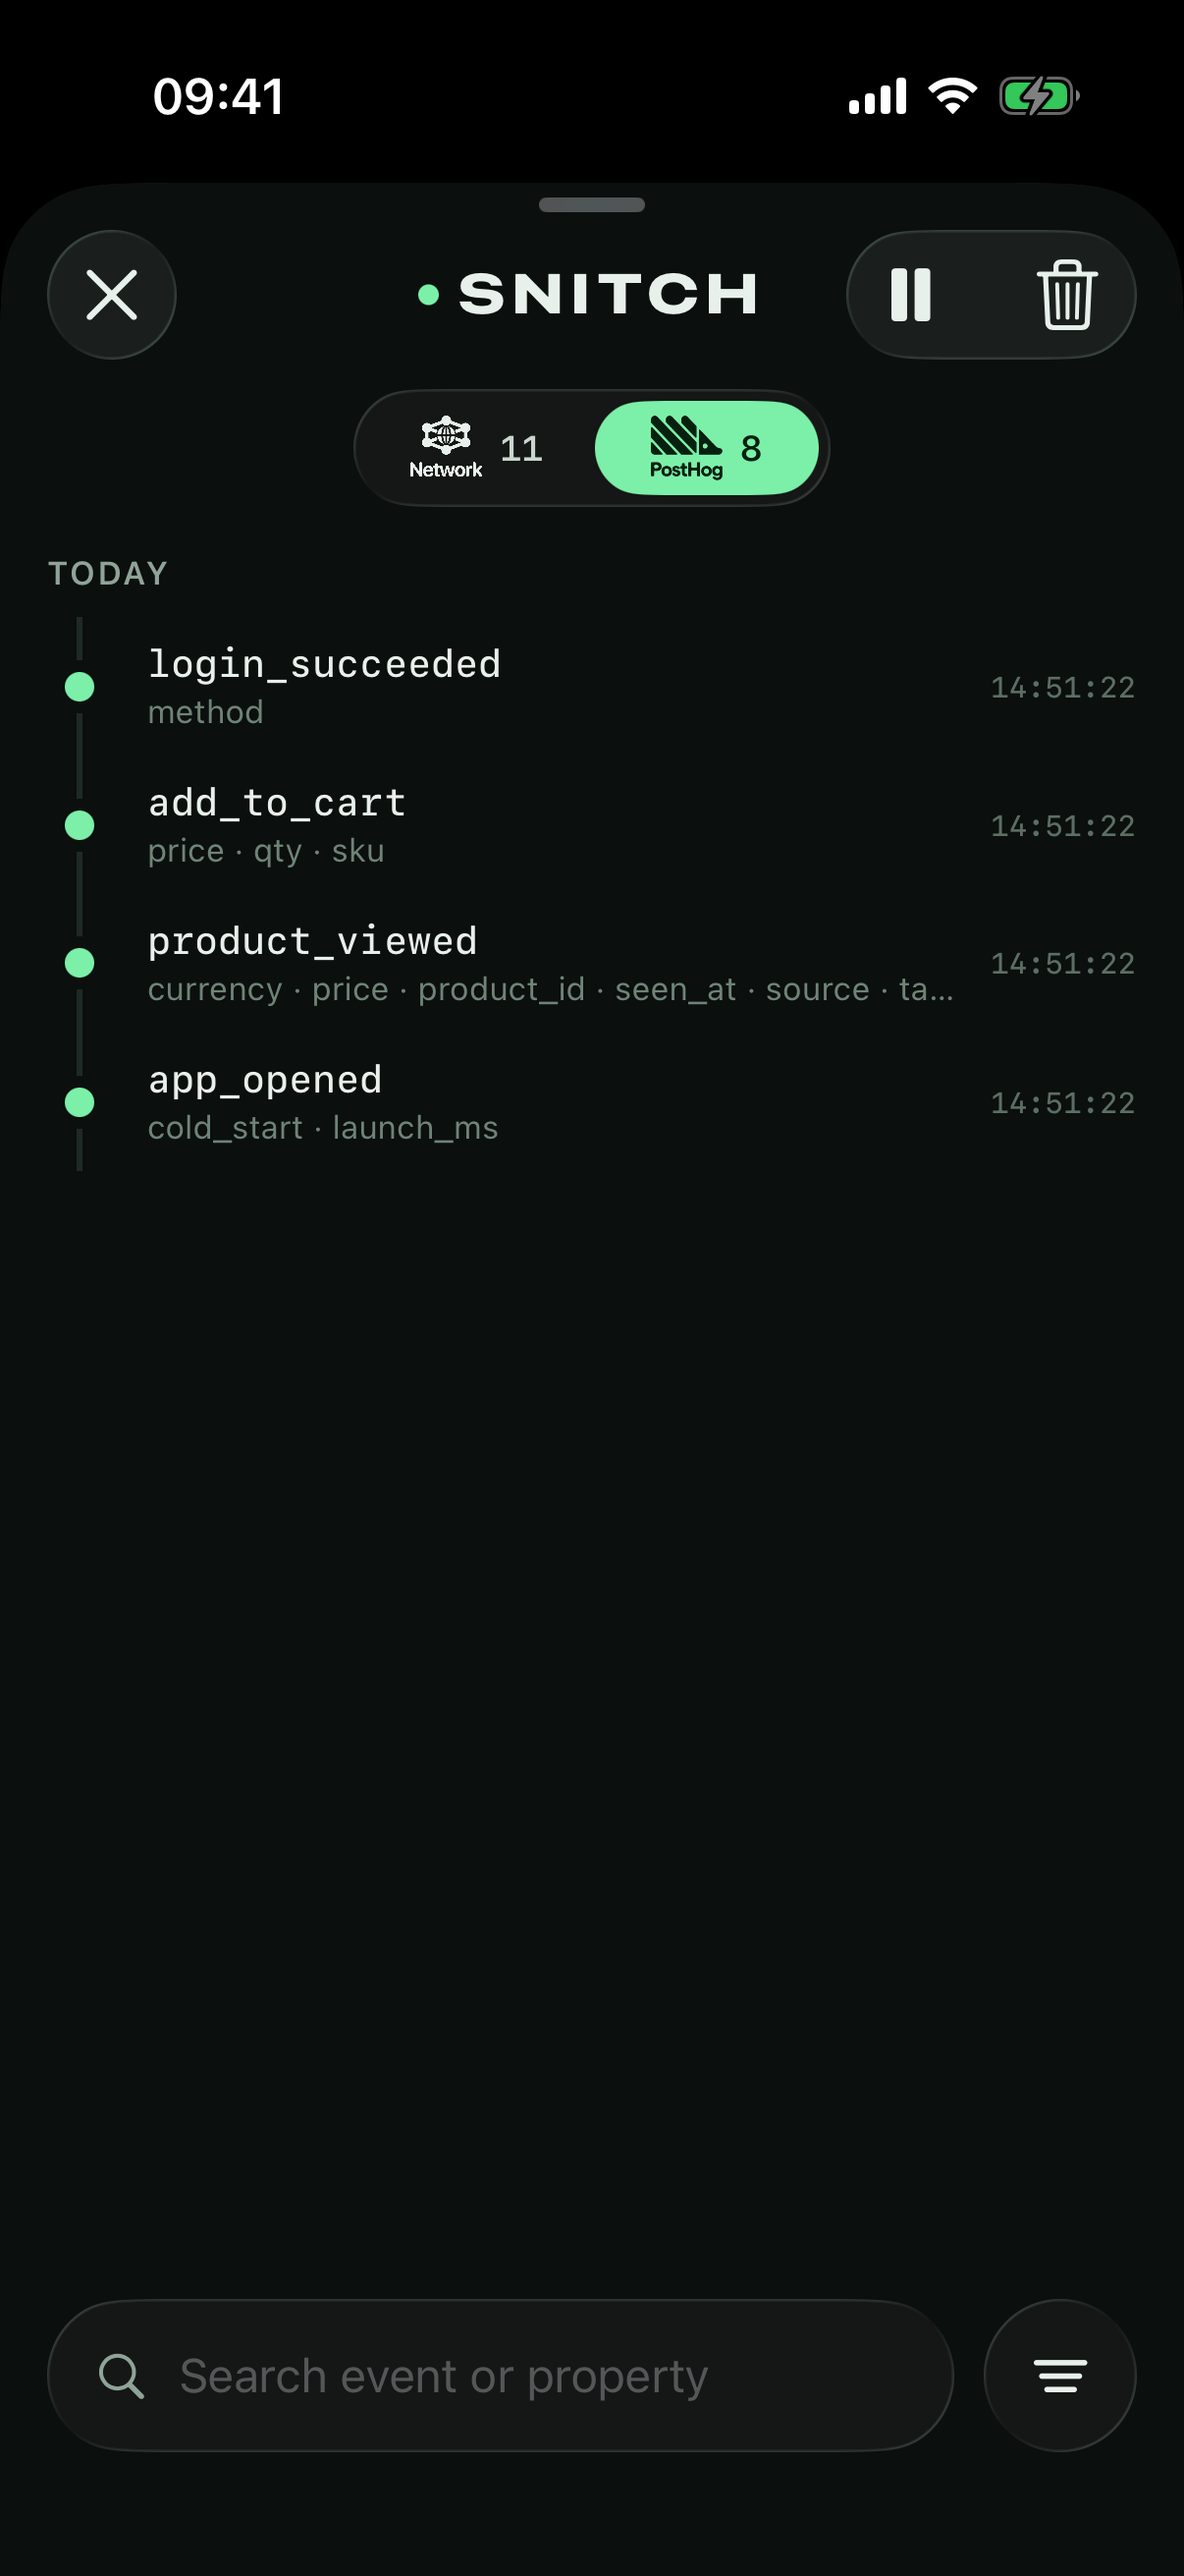
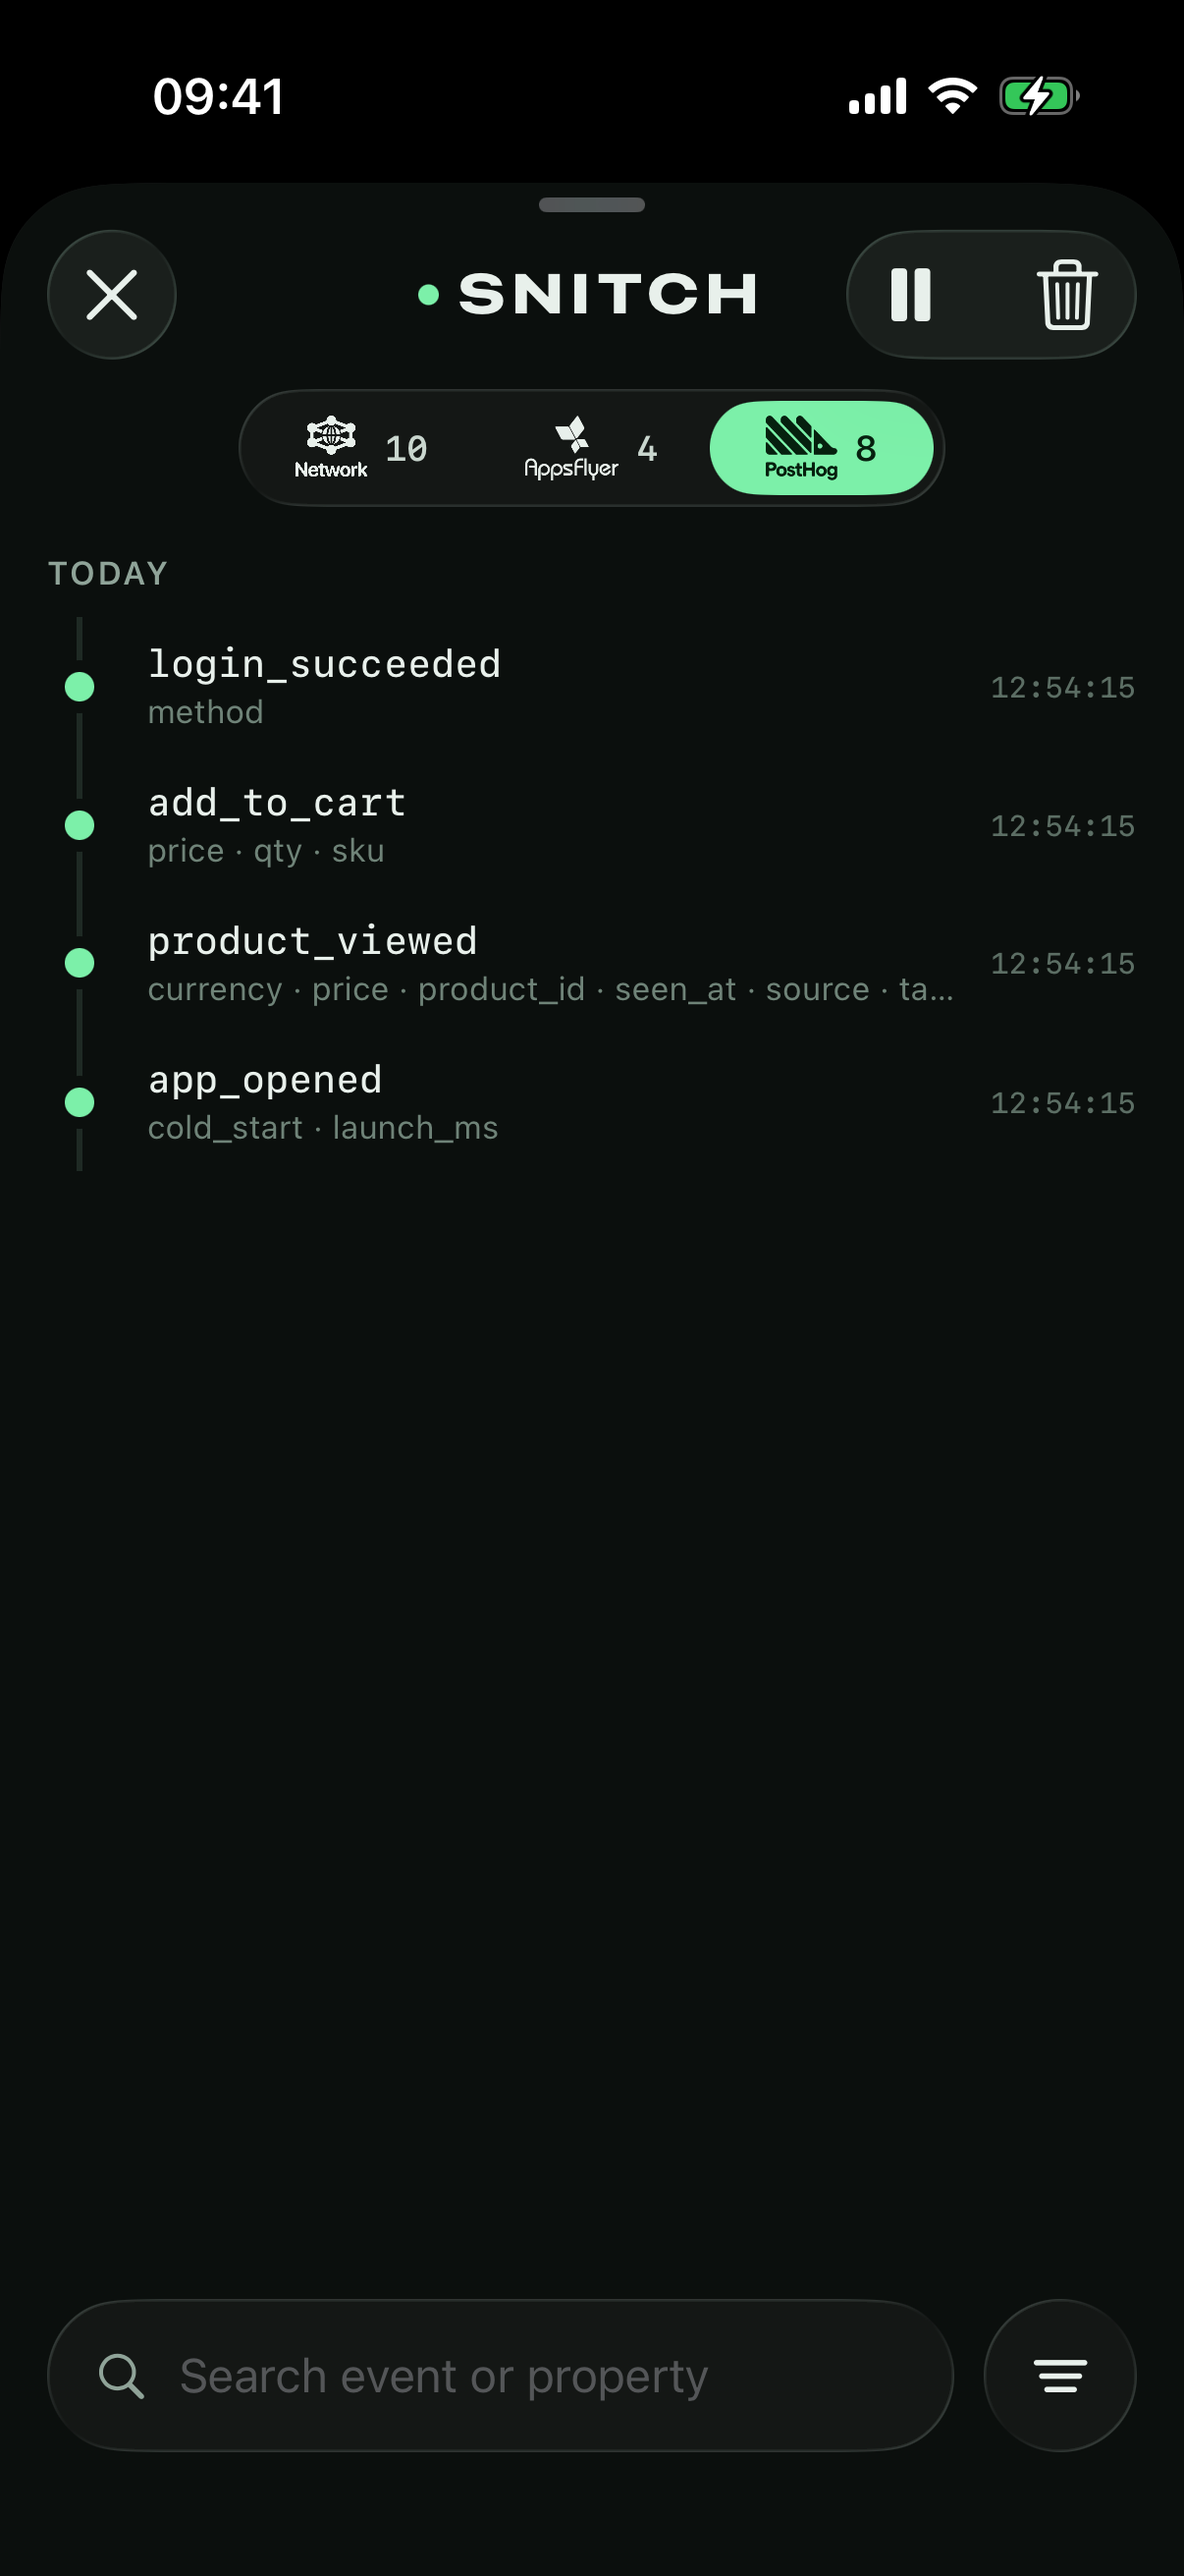
Get the README ready to share
Retake the overview screenshots with all three screens, add a test workflow and its badge, drop the early-development note, and bring the CLAUDE.md roadmap up to date.

diff --git a/CLAUDE.md b/CLAUDE.md
@@ -1,12 +1,12 @@
 # Snitch
 
-Debugging tool for iOS: network requests and analytics events in one SwiftUI timeline.
+Debugging tool for iOS: network requests and analytics events, each on its own screen in one SwiftUI inspector.
 
 ## Rules
 
 - Personal open source project. Build everything from scratch. Never copy or adapt code, names, designs, or architecture from any employer's codebase.
 - iOS only: no macOS or other platforms, so no `#if os(...)` guards. SwiftUI only for UI. iOS 16+, Swift 5.9+.
-- The core target has zero third-party dependencies. Analytics adapters (PostHog, AppsFlyer) are separate SPM products that depend on their SDKs. Core defines a small protocol and never imports them.
+- The core target has zero third-party dependencies and never imports an analytics SDK. Each adapter is a separate SPM product. It depends on its SDK only when its hook needs the SDK's API (PostHog's `beforeSend`); otherwise it finds the SDK at runtime (AppsFlyer), so apps download nothing extra.
 - Debug-only by default. Guard public entry points with `#if DEBUG` or a clear runtime opt-in so it can't ship active in a release build by accident.
 - No telemetry, no network calls of its own, no data leaves the device.
 - Never print request bodies, tokens, or headers to the console or logs.
@@ -19,8 +19,11 @@ Debugging tool for iOS: network requests and analytics events in one SwiftUI tim
 - Run the tests on the simulator after each change: `xcodebuild test -scheme Snitch-Package -destination 'platform=iOS Simulator,name=iPhone 17 Pro' -derivedDataPath .build/xcode -quiet`.
 - Add a test for every new behavior.
 
-## Roadmap
+## Versions
 
-- v1: URLProtocol capture, SwiftUI list and detail, search and filters, cURL export, shake trigger.
-- v1.1: PostHog and AppsFlyer adapters, unified timeline with source filter.
-- v1.2: HAR export, redaction, labeling of batched analytics requests.
+Each major version adds one logger, so apps can stay on the one that matches their SDKs.
+
+- 1.x (shipped): network inspector. URLProtocol capture, list and detail, search and filters, cURL export, pause, floating button and shake to open.
+- 2.x (shipped): PostHog adapter, a screen per SDK with a switcher and swipe, events linked to the uploads that sent them.
+- 3.x (shipped): AppsFlyer adapter, found at runtime instead of as a dependency.
+- Next: HAR export, header and body redaction.

diff --git a/README.md b/README.md
@@ -3,15 +3,14 @@
 </p>
 
 <p align="center">
-  <a href="https://github.com/BachoOnn/snitch/tags"><img alt="Version" src="https://img.shields.io/github/v/tag/BachoOnn/snitch?label=version&color=green"></a>
+  <a href="https://github.com/BachoOnn/snitch/actions/workflows/tests.yml"><img alt="Tests" src="https://github.com/BachoOnn/snitch/actions/workflows/tests.yml/badge.svg"></a>
+  <a href="https://github.com/BachoOnn/snitch/releases/latest"><img alt="Version" src="https://img.shields.io/github/v/tag/BachoOnn/snitch?label=version&color=green"></a>
   <img alt="Platform" src="https://img.shields.io/badge/platform-iOS%2016%2B-lightgrey">
   <img alt="Swift" src="https://img.shields.io/badge/swift-5.9%2B-orange">
   <a href="https://github.com/BachoOnn/snitch/blob/main/LICENSE"><img alt="License" src="https://img.shields.io/badge/license-Apache%202.0-blue"></a>
 </p>
 
 See what your iOS app sends and logs: network requests and analytics events, each on its own screen in one inspector.
-
-> **Status:** early development. The network inspector, PostHog events and AppsFlyer events work; the API may still change.
 
 ### Overview
 
